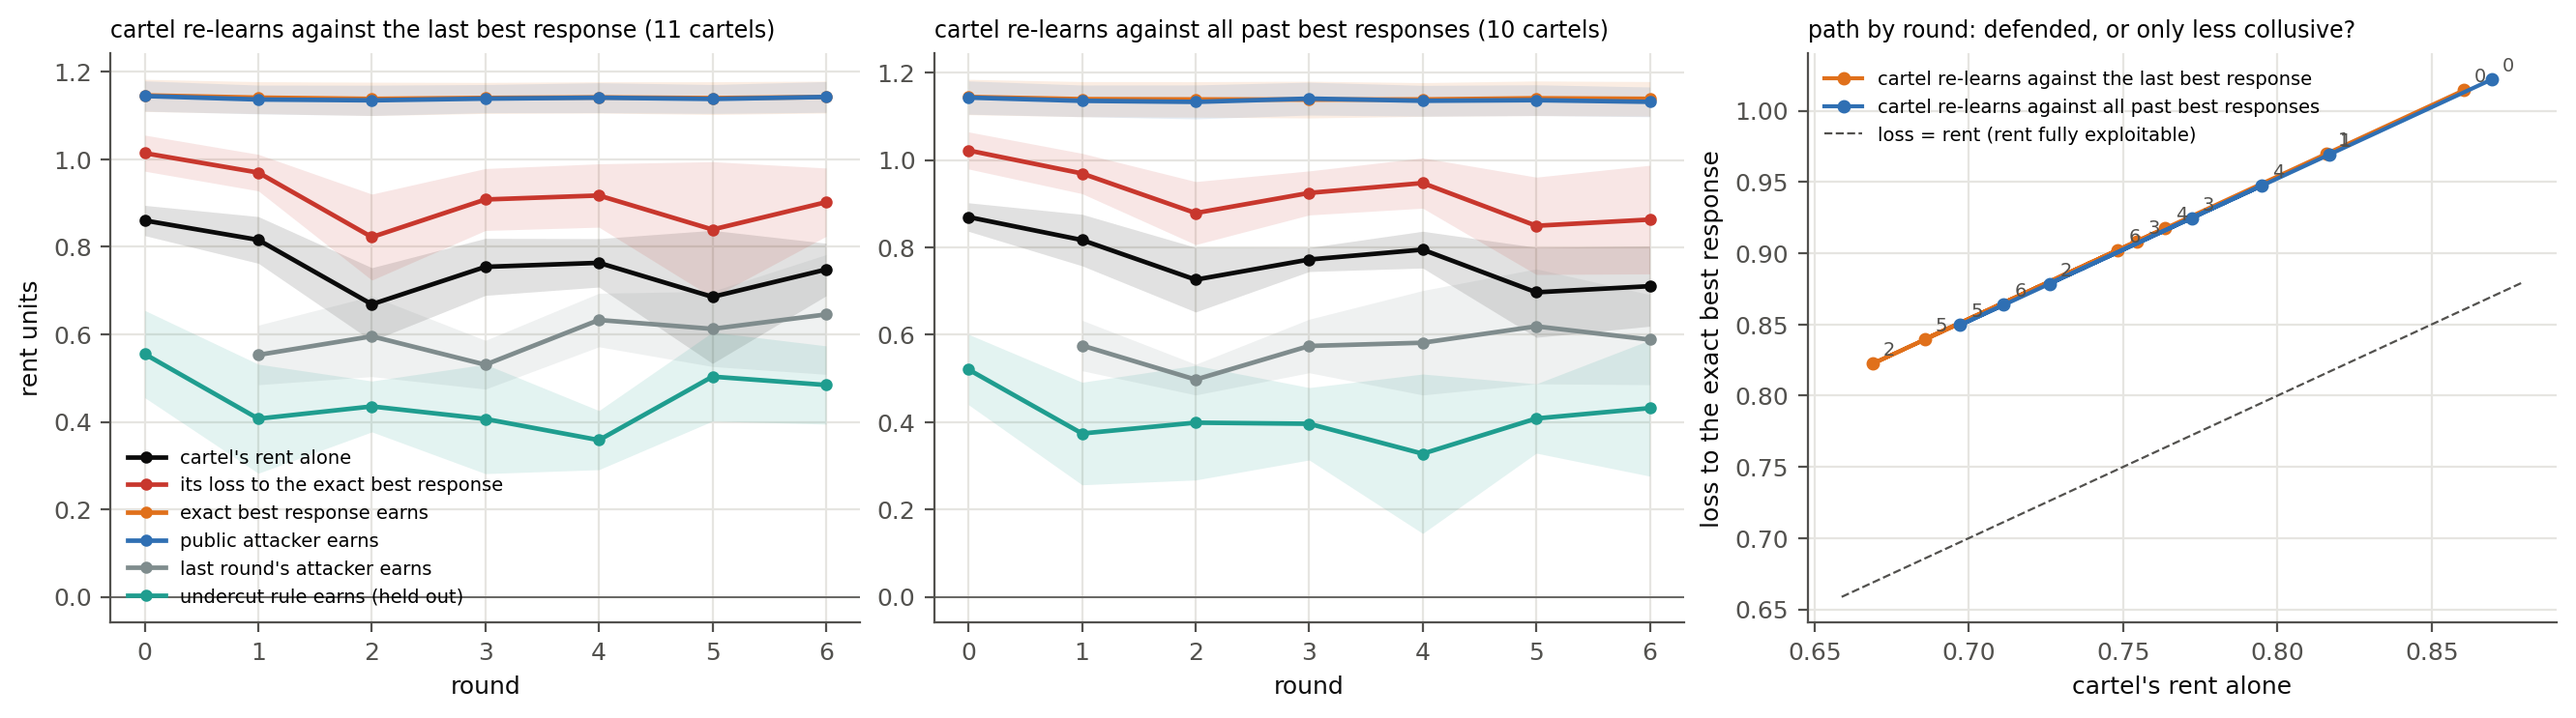
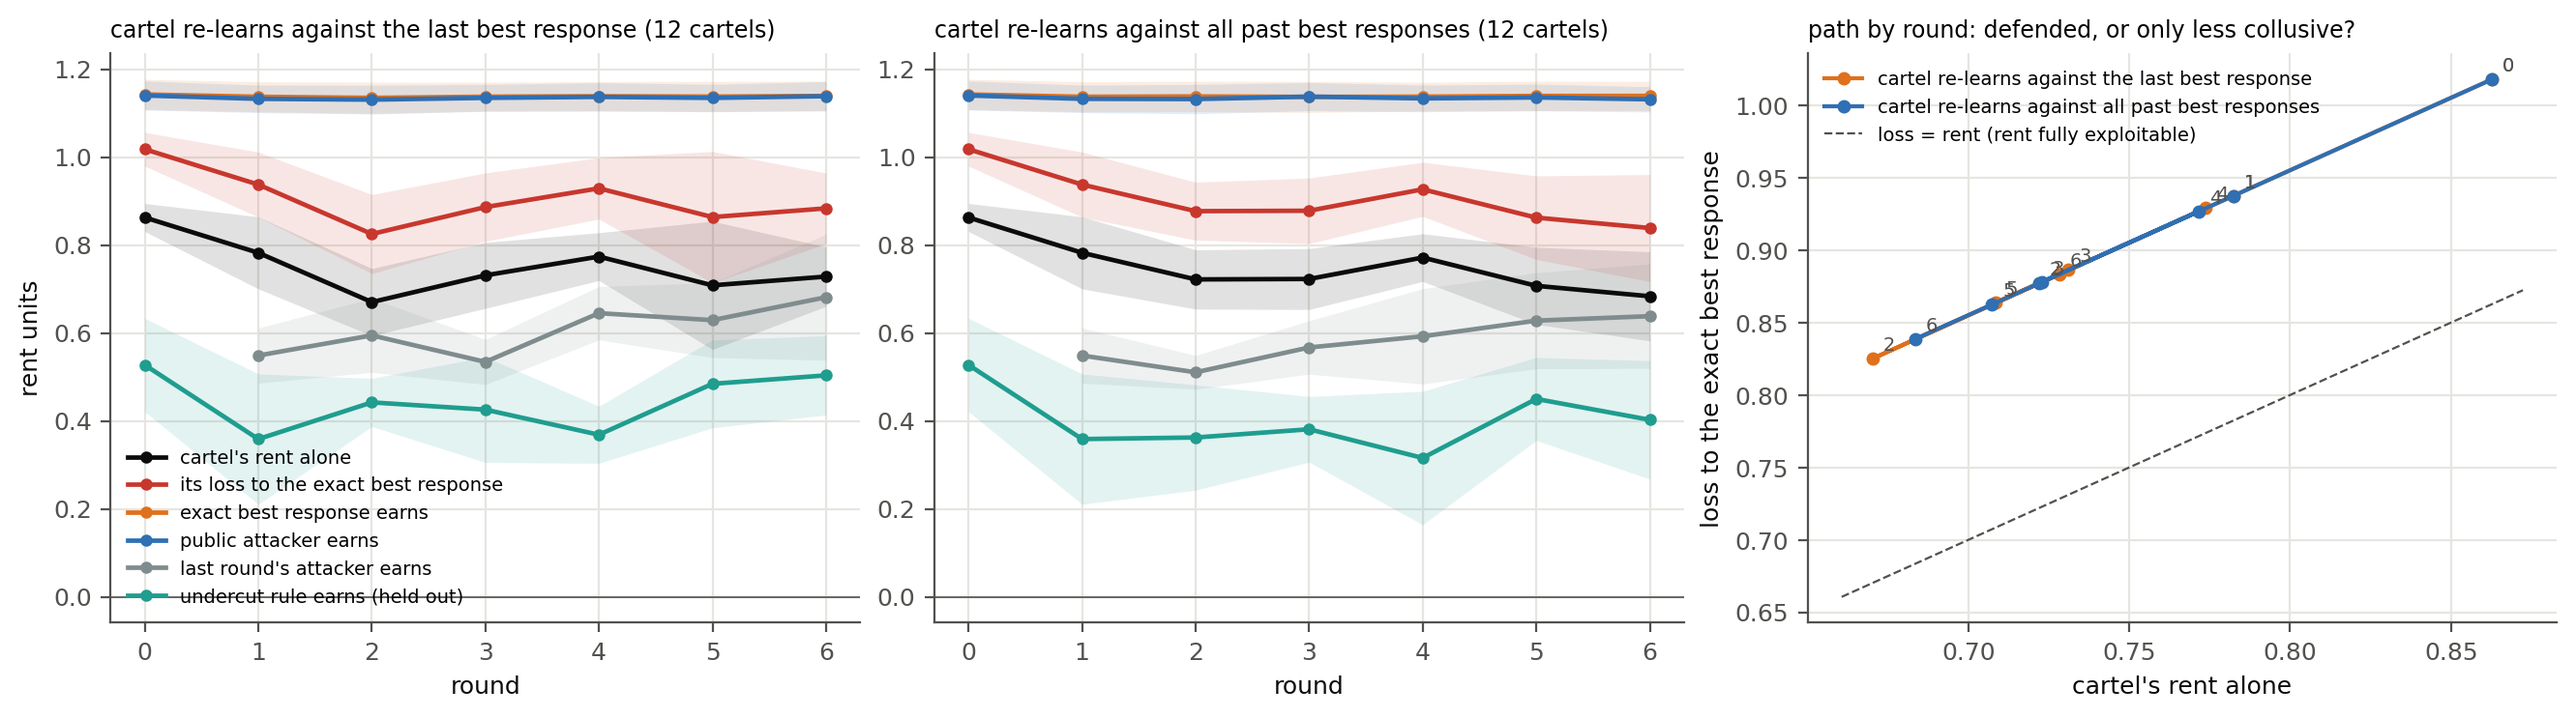
Double oracle over six rounds: final laptop numbers (12 cartels, two modes)
The mixture mode does no better than re-learning against the latest attacker;
the earlier 0.38 figure came from the first few cartels and does not hold.
PDFs not rebuilt yet.

diff --git a/paper/deliverable3.tex b/paper/deliverable3.tex
@@ -43,11 +43,11 @@
 \caption{Attackers against a cartel that re-learns until the dotted line and is then frozen.}\label{fig:relearn}
 \end{figure}
 
-\textbf{b3. Running the double oracle long changes nothing} (interim: 10 of 24 runs, six rounds; Figure~\ref{fig:psro}). The cartel re-learns either against the latest best response or against a mixture of all past ones (an adversarially trained cartel). In every round and both modes its loss to the re-solved best response is its rent plus $0.21$, the best response earns $1.18$--$1.19$, and the rent wanders in $0.62$--$0.86$ without trend. Training against the mixture protects only against the attackers trained on (the previous attacker falls to $0.38$). The public attacker equals the oracle in every round. The plan's question was whether adversarially trained cartels are less exploitable or just less collusive; so far the answer is neither.
+\textbf{b3. Running the double oracle long changes nothing} (12 two-maker cartels, two modes, six rounds; Figure~\ref{fig:psro}). The cartel re-learns either against the latest best response or against a mixture of all past ones (an adversarially trained cartel). In every round and both modes its loss to the re-solved best response is its rent plus $0.16$, the best response earns $1.13$--$1.14$, and the rent falls from $0.86$ to $0.78$ in the first round and then stays in $0.67$--$0.78$ without trend. Re-learning protects only against attackers already seen (the previous attacker falls from $1.14$ to $0.51$--$0.68$), and the mixture does no better than the latest attacker alone. The public attacker equals the oracle in every round. The plan's question was whether adversarially trained cartels are less exploitable or just less collusive; the answer is slightly less collusive and no less exploitable.
 
 \begin{figure}[h]\centering
 \includegraphics[width=0.98\textwidth]{fig_psro.pdf}
-\caption{The double oracle by round and mode; right, the path of (rent, loss to the exact best response) (interim).}\label{fig:psro}
+\caption{The double oracle by round and mode; right, the path of (rent, loss to the exact best response) .}\label{fig:psro}
 \end{figure}
 
 \textbf{b4. In the queue game there is nothing to steer} (three seeds, preliminary). When the spread is pinned, makers only choose to keep an order standing or step out, and the incumbents are no-regret learners over complete policies. An entrant that behaves one way while they learn and switches afterwards gains nothing: $0.084$ per period against $0.083$ had it been absent. Its presence changes what the incumbents learn (the weight on selecting rises from $0.38$ to $0.68$) but not what it earns ($+0.009$, inside the noise). In the spread game the attacker's take comes from the cartel's reaction; in the queue it comes from selecting takers, and there is no reaction function.

diff --git a/paper/arxiv_draft.tex b/paper/arxiv_draft.tex
@@ -132,7 +132,7 @@ oracle (true tables) & 1.21 / 1.09 / 1.17 & 1.20 / 1.08 / 1.16 & 1 \\
 
 \paragraph{Does learning defend the cartel? The double oracle.} The cartel resumes learning against the fixed best response, is frozen again, and the entrant re-solves; this is repeated. In three rounds on 60 cartels, re-learning buys back half of what the now-stale attacker takes (its profit falls from $1.2$ to $0.5$) and nothing against the re-solved one ($\LBR\ge0.9\,C$ in every cartel and round), while the cartel's own rent erodes from $0.83$ to $0.69$.
 
-\paragraph{Running the loop long.}\prelim{} Three rounds might be too few for the cartel to find a defence. We run six, in two modes: the cartel re-learns against the latest best response, or against a uniform mixture of every best response found so far (an adversarially trained cartel). On the first cartels of an ongoing run (four and three, $\bar\alpha=0.1$; Figure~\ref{fig:psro}) the loop does not settle anywhere better for the cartel: its loss to the re-solved best response equals its rent plus $0.21$ in every round and both modes, the best response earns $1.18$--$1.19$ every time, and the rent wanders between $0.62$ and $0.86$ without trend. Training against the mixture buys robustness to the attackers trained against (the previous round's attacker falls to $0.38$) and nothing against a new one. The public-information attacker equals the oracle in every round, so the realistic entrant is the one in the loop. Adversarial training makes the cartel neither less exploitable nor reliably less collusive.
+\paragraph{Running the loop long.} Three rounds might be too few for the cartel to find a defence. We run six, in two modes: the cartel re-learns against the latest best response, or against a uniform mixture of every best response found so far (an adversarially trained cartel). On 12 two-maker cartels (four per $\bar\alpha$, laptop run; Figure~\ref{fig:psro}) the loop does not settle anywhere better for the cartel: its loss to the re-solved best response equals its rent plus $0.16$ in every round and both modes, the best response earns $1.13$--$1.14$ every time, and the rent falls from $0.86$ to $0.78$ in the first round and then stays between $0.67$ and $0.78$ without trend. Re-learning buys robustness only to attackers already seen: the previous round's attacker falls from $1.14$ to $0.51$--$0.68$, the same under either mode, and a new one loses nothing. The public-information attacker equals the oracle in every round, so the realistic entrant is the one in the loop. Adversarial training makes the cartel slightly less collusive and no less exploitable.
 
 \begin{figure}[t]\centering
 \includegraphics[width=\textwidth]{fig_psro.pdf}

diff --git a/paper/slides_workshop2.tex b/paper/slides_workshop2.tex
@@ -153,9 +153,9 @@ Two episodes already take the rent. Three incumbents are no harder than two.
 \end{frame}
 
 \begin{frame}{Result 3: repeated adversarial training does not help either}
-\partlabel{Item 2, interim: 10 of 24 runs}
+\partlabel{Item 2: 12 two-maker cartels, two modes}
 \centering\includegraphics[width=0.95\textwidth]{fig_psro.pdf}
-\takeaway{After six rounds the loss to a fresh best response is still the whole rent. Training against past attackers protects only against past attackers.}
+\takeaway{After six rounds the loss to a fresh best response is still the whole rent. Re-learning protects only against attackers already seen.}
 \note{Two modes: re-learn against the last attacker, or against all of them. Neither less exploitable nor reliably less collusive.}
 \end{frame}
 

diff --git a/results/REPLICATION_NOTES.md b/results/REPLICATION_NOTES.md
@@ -1937,7 +1937,7 @@ is the degenerate case: nobody can place an order and there is no market.)
 
 ---
 
-# Both sides learning, Nov 15: the public attacker against a re-learning cartel, and the double oracle run long (`public_attacker_relearn.csv`, `psro.csv`, `fig_relearn_attack.png`, `fig_psro.png`; laptop; INTERIM: the runs were still in progress when this was written, see the cartel counts; full size is `slurm/workshop2.sh` steps 1 and 2)
+# Both sides learning, Nov 15: the public attacker against a re-learning cartel, and the double oracle run long (`public_attacker_relearn.csv`, `psro.csv`, `fig_relearn_attack.png`, `fig_psro.png`; laptop, finished Nov 16; full size is `slurm/workshop2.sh` steps 1 and 2)
 
 ## The public-information attacker against a cartel that keeps learning (`experiments/public_attacker_relearn.py`; 15 two-maker cartels, five each at ᾱ = 0.1, 0.3, 0.5; finished Nov 16)
 
@@ -1971,29 +1971,31 @@ attacker (alone: C = 0.72 to 0.98, mean 0.86).  The pattern is the same at each 
 * **A stale attacker is the only one the cartel recovers against** (+0.05 to +0.13 of rent kept,
   attacker stuck at 0.48 after the freeze): the double-oracle result, reproduced inside one run.
   With all 15 cartels the recovery is smaller than in the first six (+0.16 to +0.21).
-## Double oracle run long, two modes (`experiments/psro.py`; 6 rounds of 3000 re-learning episodes; first 4 cartels in mode `last`, 3 in `uniform`, all ᾱ = 0.1)
+## Double oracle run long, two modes (`experiments/psro.py`; 6 rounds of 3000 re-learning episodes; 12 two-maker cartels, four each at ᾱ = 0.1, 0.3, 0.5, both modes; finished Nov 16)
 
 | round | C, last / uniform | loss to the re-solved best response | best response earns | last round's attacker earns | public attacker earns | undercut rule (held out) |
 |---|---|---|---|---|---|---|
-| 0 | 0.86 / 0.85 | 1.07 / 1.06 | 1.19 / 1.19 | | 1.19 / 1.19 | 0.55 / 0.54 |
-| 1 | 0.72 / 0.73 | 0.93 / 0.94 | 1.19 / 1.19 | 0.55 / 0.57 | 1.18 / 1.18 | 0.44 / 0.43 |
-| 2 | 0.75 / 0.62 | 0.96 / 0.83 | 1.19 / 1.18 | 0.60 / 0.54 | 1.18 / 1.18 | 0.47 / 0.53 |
-| 3 | 0.68 / 0.76 | 0.89 / 0.97 | 1.18 / 1.19 | 0.55 / 0.52 | 1.18 / 1.18 | 0.59 / 0.48 |
-| 4 | 0.79 / 0.77 | 1.00 / 0.98 | 1.19 / 1.18 | 0.65 / 0.44 | 1.19 / 1.18 | 0.47 / 0.48 |
-| 5 | 0.79 / 0.75 | 1.00 / 0.96 | 1.19 / 1.19 | 0.56 / 0.56 | 1.18 / 1.18 | 0.54 / 0.47 |
-| 6 | 0.75 / 0.84 | 0.96 / 1.06 | 1.19 / 1.18 | 0.63 / 0.38 | 1.19 / 1.17 | 0.47 / 0.43 |
+| 0 | 0.86 / 0.86 | 1.02 / 1.02 | 1.14 / 1.14 | | 1.14 / 1.14 | 0.53 / 0.53 |
+| 1 | 0.78 / 0.78 | 0.94 / 0.94 | 1.14 / 1.14 | 0.55 / 0.55 | 1.13 / 1.13 | 0.36 / 0.36 |
+| 2 | 0.67 / 0.72 | 0.83 / 0.88 | 1.13 / 1.14 | 0.59 / 0.51 | 1.13 / 1.13 | 0.44 / 0.36 |
+| 3 | 0.73 / 0.72 | 0.89 / 0.88 | 1.14 / 1.14 | 0.53 / 0.57 | 1.13 / 1.14 | 0.43 / 0.38 |
+| 4 | 0.77 / 0.77 | 0.93 / 0.93 | 1.14 / 1.14 | 0.65 / 0.59 | 1.14 / 1.13 | 0.37 / 0.32 |
+| 5 | 0.71 / 0.71 | 0.86 / 0.86 | 1.14 / 1.14 | 0.63 / 0.63 | 1.13 / 1.14 | 0.48 / 0.45 |
+| 6 | 0.73 / 0.68 | 0.88 / 0.84 | 1.14 / 1.14 | 0.68 / 0.64 | 1.14 / 1.13 | 0.50 / 0.40 |
 
 (`last`: the cartel re-learns against the most recent best response; `uniform`: against a
 uniform mixture of every best response so far, one per episode.)
 
 * **It does not settle anywhere better for the cartel.**  The loss to the re-solved best
-  response equals the rent plus 0.21 in every round and both modes; the best response earns 1.18
-  to 1.19 every time.  The rent wanders between 0.62 and 0.86 with no trend.
-* **Adversarial training buys robustness only to the attackers trained against.**  Under
-  `uniform` the previous round's attacker falls to 0.38 by round 6 (0.63 under `last`), and the
-  re-solved one is untouched.  The Workshop 2 question (less exploitable, or just less
-  collusive?) has the answer "neither": the path of (C, L_BR) stays on a line parallel to the
-  diagonal.
-* **The public attacker equals the oracle in every round** (1.17 to 1.19): the learned,
+  response equals the rent plus 0.16 in every round and both modes; the best response earns 1.13
+  to 1.14 every time.  The rent falls from 0.86 to 0.78 in round 1 and then stays between 0.67
+  and 0.78 with no trend.
+* **Re-learning buys robustness only to attackers already seen, and the mixture adds nothing.**
+  The previous round's attacker falls from 1.14 to 0.51–0.68, the same under `last` and
+  `uniform`; the re-solved one is untouched.  (The first ᾱ = 0.1 cartels suggested `uniform`
+  pushed the previous attacker lower, to 0.38; that does not hold on 12 cartels.)  The Workshop 2
+  question (less exploitable, or just less collusive?) has the answer "slightly less collusive,
+  no less exploitable": the path of (C, L_BR) stays on a line parallel to the diagonal.
+* **The public attacker equals the oracle in every round** (1.13 to 1.14): the learned,
   realistic entrant is the one in the loop.
-* ᾱ = 0.3 and 0.5 cartels are still running.
+* The held-out undercut rule earns less after re-learning (0.32 to 0.50 against 0.53).

diff --git a/paper/WORKSHOP2_PLAN.md b/paper/WORKSHOP2_PLAN.md
@@ -7,7 +7,7 @@
 | 1 Visual demonstration | **Done** | `experiments/trace.py`, `demo/index.html`, `analysis/trace_video.py`, `tests/test_trace.py` |
 | 2 Public attacker vs re-learning cartels | **Done at laptop size** (15 two-maker cartels; full size is on the cluster script) | `experiments/public_attacker_relearn.py`, `fig_relearn_attack` |
 | 3 Scripted grids on the cluster | **Not submitted** (no cluster login on the laptop). The queue identity and fee grids were already in the repo at 5 seeds. | `sbatch slurm/workshop2.sh` |
-| 4 Double oracle to convergence | **Interim** (10 of 24 runs, six rounds) | `experiments/psro.py`, `fig_psro` |
+| 4 Double oracle to convergence | **Done at laptop size** (12 two-maker cartels, two modes, six rounds; no convergence to a defence) | `experiments/psro.py`, `fig_psro` |
 | 5 Queue-mode attacks | **Preliminary** (3 seeds): steering is a null; the request allowance removes the selection rent | `experiments/queue_attacks.py`, `fig_queue_steer`, `fig_queue_budget` |
 | 6 Data: full recording, December archive | Full-recording analysis was already in the repo (Nov 2). **December archive not started**: raw data is not on the laptop. | `slurm/data_pipeline.sh` |
 | 7 One frontier figure | **Draft** from existing results; strong attackers (exact best response, public attacker) coded into `experiments/defences.py`, run pending | `analysis/frontier_fig.py`, `fig_frontier` |
